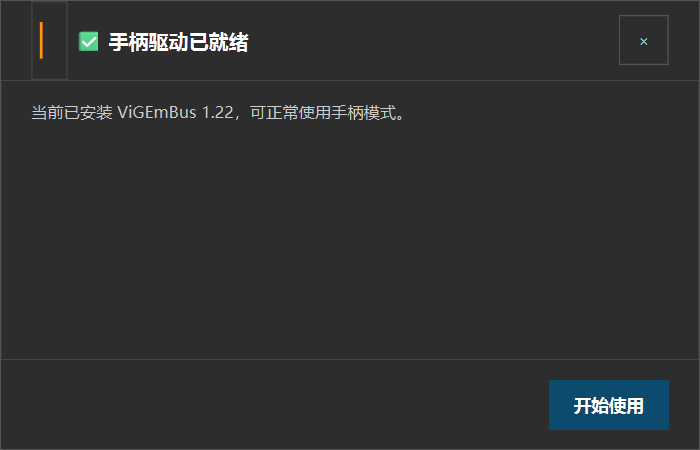
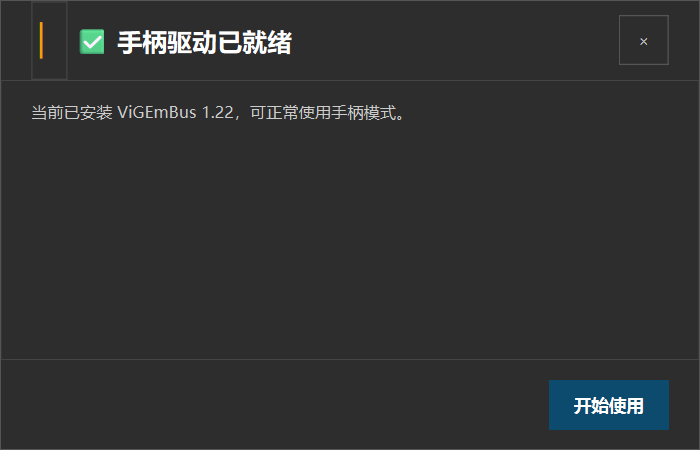
fix(ui): keep dynamic status titles consistent with dialog headers

Changed region(s): [[0.09, 0.0622, 0.42, 0.1244]]

diff --git a/views/ui_components.py b/views/ui_components.py
@@ -232,7 +232,7 @@ def finish_dialog(dialog, size, actions=(), guidance=None, columns=False,
                 if label.text() and not any(0xE000 <= ord(c) <= 0xF8FF for c in label.text()):
                     label.setFont(font)
     for label in header.findChildren(QLabel):
-        if label is not marker and label.text() and not any(0xE000 <= ord(c) <= 0xF8FF for c in label.text()):
+        if label is not marker and not any(0xE000 <= ord(c) <= 0xF8FF for c in label.text()):
             font = QFont(get_font())
             font.setPixelSize(20)
             font.setBold(True)
